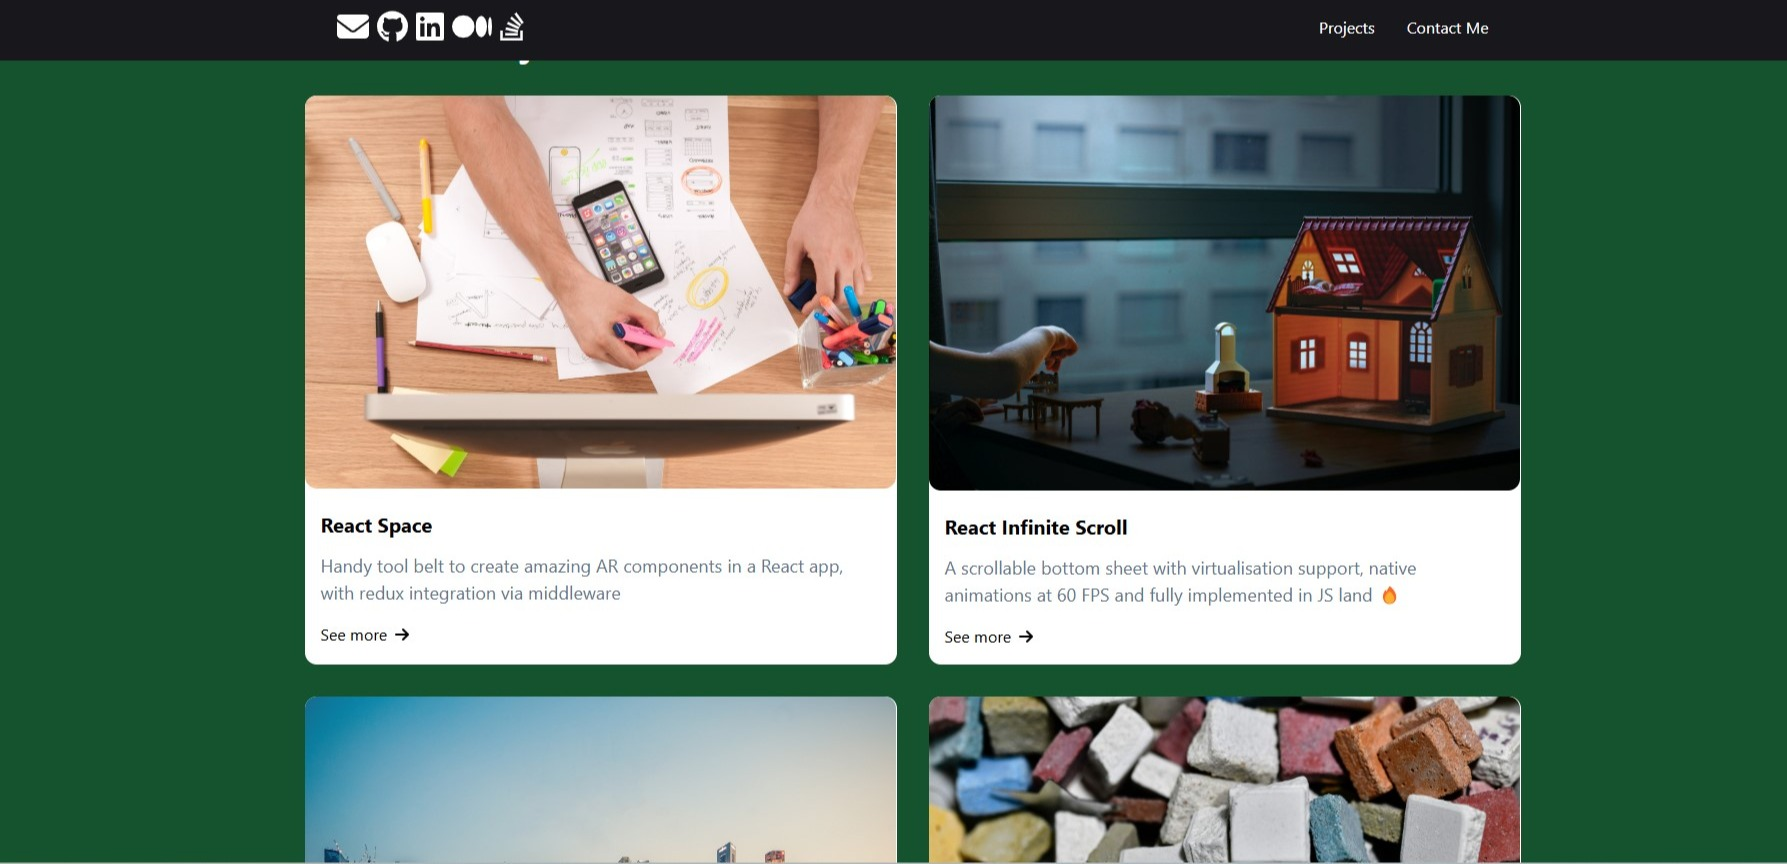
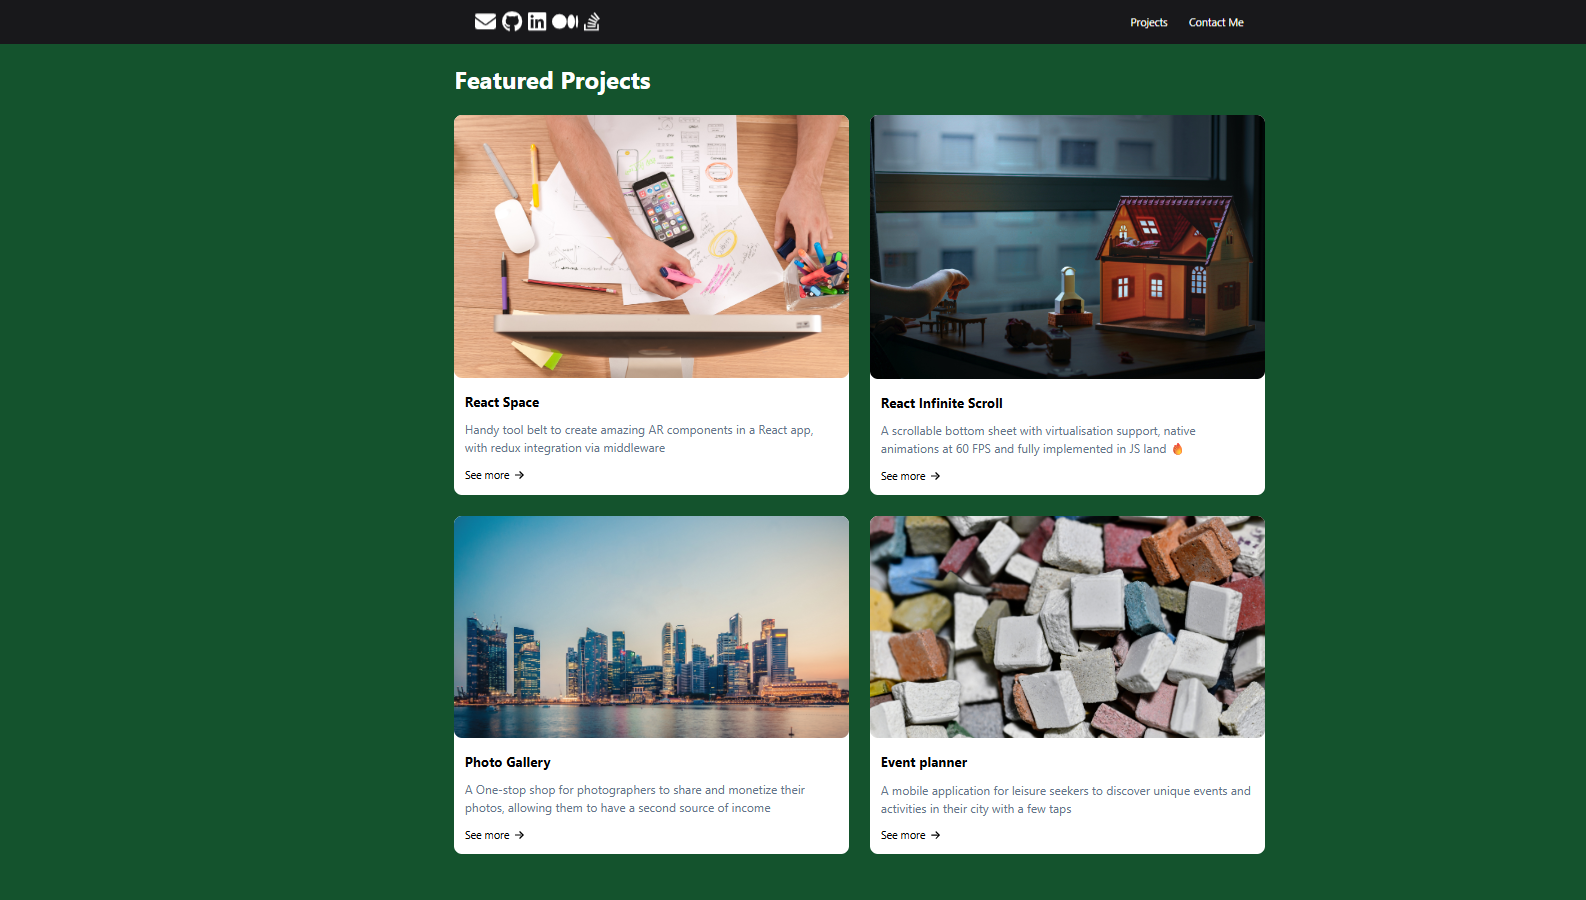
added a new project

diff --git a/src/components/Project.jsx b/src/components/Project.jsx
@@ -5,6 +5,7 @@ import myportfolio from "../assets/projects/myportfolio.png";
 import weather from "../assets/projects/weather.png";
 import shoppingCart from "../assets/projects/shoppingCart.png";
 import metaPortfolio from "../assets/projects/metaPortfolio.png";
+import socialMedia from "../assets/projects/socialMedia.jpg";
 
 const Project = () => {
   return (
@@ -19,6 +20,30 @@ const Project = () => {
       </motion.h1>
 
       <div className="mb-8 flex flex-wrap lg:justify-center">
+        {/* 1st Project */}
+        <motion.div
+          className="w-full lg:w-1/4 mb-8 flex justify-center"
+          initial={{ opacity: 0, y: 50 }}
+          whileInView={{ opacity: 1, y: 0 }}
+          transition={{ duration: 0.5 }}
+          viewport={{ once: true }}
+        >
+          <a href="https://github.com/Swetasmita/social-media-app" target="_blank" rel="noopener noreferrer">
+            <img className="rounded-2xl" src={socialMedia} alt="Social media Website" width={400} height={150} />
+          </a>
+        </motion.div>
+        <motion.div
+          className="w-full lg:w-3/4"
+          initial={{ opacity: 0, x: -50 }}
+          whileInView={{ opacity: 1, x: 0 }}
+          transition={{ duration: 0.5 }}
+          viewport={{ once: true }}
+        >
+          <h6 className="mb-2 font-semibold text-center"> Mini Social Media App</h6>
+          <p className="mb-4 ml-4 text-neutral-400">
+           A simple, responsive social media-style app built with React and Bootstrap. Users can create, view, and delete posts. It demonstrates modern React features including useReducer, Context API, dynamic routing with React Router, loading state management, and proper useEffect cleanup.
+          </p>
+        </motion.div>
         {/* 1st Project */}
         <motion.div
           className="w-full lg:w-1/4 mb-8 flex justify-center"
